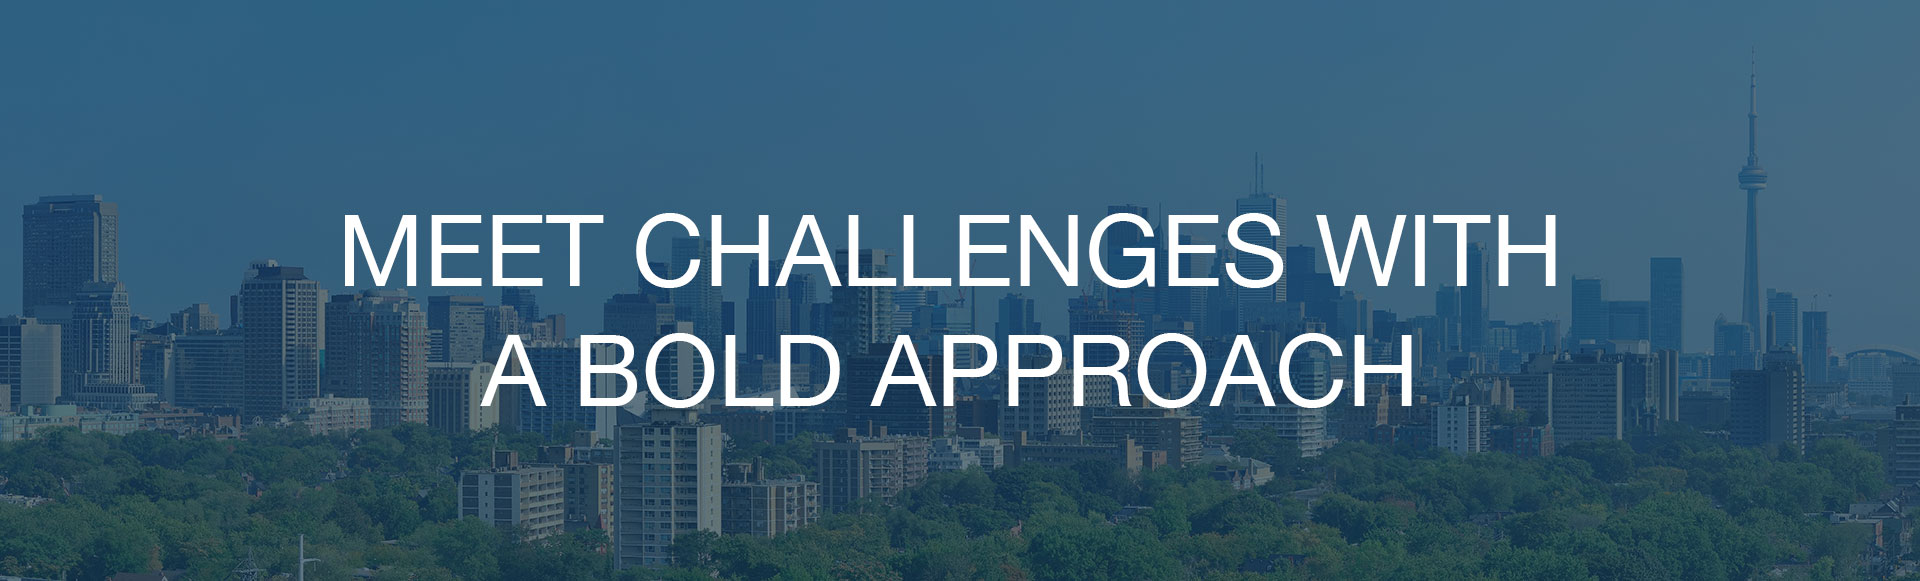
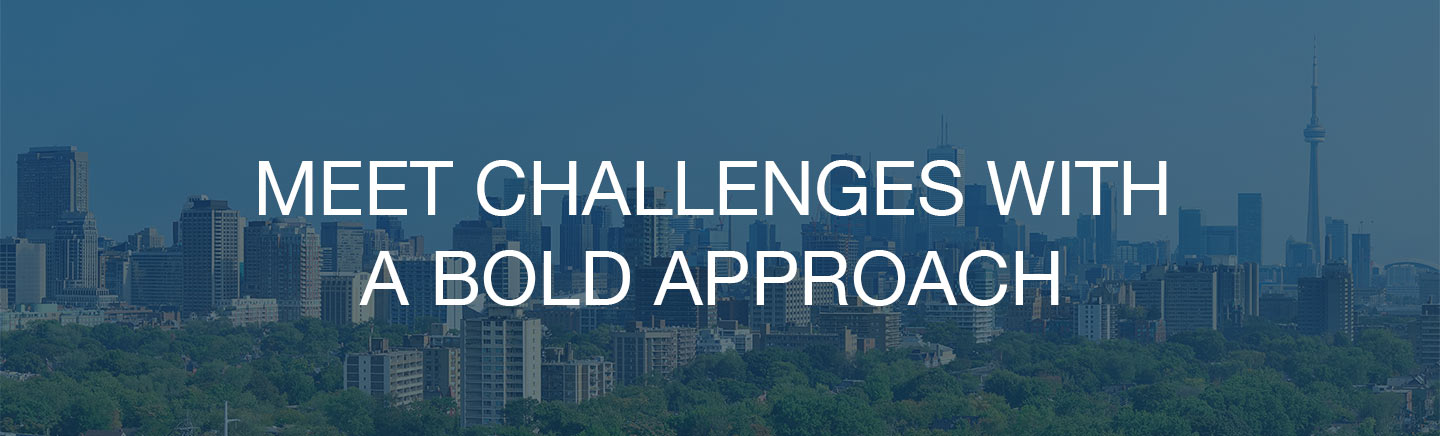
Added RSS feeds, buttons for twitter follow and RSS subscribe to header.

diff --git a/hugo/layouts/partials/common/page-header.html b/hugo/layouts/partials/common/page-header.html
@@ -20,9 +20,9 @@
         <!-- Collect the nav links, forms, and other content for toggling -->
         <div class="collapse navbar-collapse pull-right" id="wych-navbar-collapse">
             <ul class="nav navbar-nav">
-                <li><a href="/services"><i class="fa fa-gears"></i>&nbsp;Services</a></li>
-                <li><a href="/blogs/"><i class="fa fa-rss"></i>&nbsp;Blogs</a></li>
-                <li><a href="/about"><i class="fa fa-lightbulb-o"></i>&nbsp;About</a></li>
+                <li><a href="/services"><i class="fa fa-fw fa-gears"></i>&nbsp;Services</a></li>
+                <li><a href="/blogs/"><i class="fa fa-fw fa-rss"></i>&nbsp;Blogs</a></li>
+                <li><a href="/about"><i class="fa fa-fw fa-lightbulb-o"></i>&nbsp;About</a></li>
                 <!--<li class="dropdown">
                     <a href="#" class="dropdown-toggle" data-toggle="dropdown">Blog <span class="caret"></span></a>
                     <ul class="dropdown-menu" role="menu">
@@ -35,8 +35,28 @@
                         <li><a href="#">One more separated link</a></li>
                     </ul>
                 </li> -->
-                <li class=""><a target="_careers" href="http://apply.launchcode5.com"><i class="fa fa-group"></i>&nbsp;Careers</a></li>
-                <li class=""><a href="#contactModal" data-toggle="modal" data-target="#contactModal"><i class="fa fa-phone"></i>&nbsp;Contact</a></li>
+                <li><a target="_careers" href="http://apply.launchcode5.com"><i class="fa fa-fw fa-group"></i>&nbsp;Careers</a></li>
+                <li><a href="#contactModal" data-toggle="modal" data-target="#contactModal"><i class="fa fa-fw fa-phone"></i>&nbsp;Contact</a></li>
+            </ul>
+            <ul class="nav navbar-nav nav-right nav-pills">
+                <li class="hidden-xs">
+                    <a class="hand btn btn-xs twitter-follow-btn" onclick="twitterFollow('launchcode5');" title="Follow us on Twitter">
+                        <div class="nav-social-btn"><i class="fa fa-fw fa-twitter"></i></div>
+                    </a>
+                </li>
+                <li class="hidden-xs">
+                    <a class="hand btn btn-xs feedburner-subscribe-btn" title="Subscribe to our Blogs Feed" href="http://feeds.feedburner.com/BlogsAtLaunchcodeSoftwareStudios">
+                        <div class="nav-social-btn"><i class="fa fa-fw fa-rss"></i></div>
+                    </a>
+                </li>
+                <li class="visible-xs">
+                    <a class="hand" onclick="twitterFollow('launchcode5');" title="Follow us on Twitter">
+                        <span class="btn btn-sm twitter-follow-btn"><i class="fa fa-fw fa-twitter"></i>&nbsp;Follow</span>
+                    </a>
+                    <a class="hand" href="http://feeds.feedburner.com/BlogsAtLaunchcodeSoftwareStudios" title="Subscribe to our Blogs Feed">
+                        <span class="btn btn-sm feedburner-subscribe-btn"><i class="fa fa-fw fa-rss"></i>&nbsp;Subscribe</span>
+                    </a>
+                </li>
             </ul>
             <!-- <form class="navbar-form navbar-left" role="search">
                     <div class="form-group">

diff --git a/hugo/static/css/main.scss b/hugo/static/css/main.scss
@@ -379,8 +379,55 @@ div.section
 
 .nav > li > a
 {
-  padding: 10px 10px;
+  padding: 10px 8px;
   padding-top: 15px;
+}
+
+.nav.nav-pills > li > a > div.nav-social-btn
+{
+  width: 25px;
+  height: 25px;
+  display: table-cell;
+  vertical-align: middle;
+  text-align: center;
+}
+
+.nav.nav-pills > li > a.twitter-follow-btn
+{
+  background-color: darken(#3071a9, 10);
+  color: #E0E0E0 !important;
+  margin: 0 0;
+  padding: 2px 2px;
+  margin-left: 10px;
+  margin-top: 10px;
+}
+
+.nav.nav-pills > li > a.feedburner-subscribe-btn
+{
+  background-color: darken(#FF6600, 10);
+  color: #E0E0E0 !important;
+  margin: 0 0;
+  padding: 2px 2px;
+  margin-left: 3px;
+  margin-top: 10px;
+}
+
+.nav.nav-pills > li > a > span.twitter-follow-btn {
+  color:  #F0F0F0 !important;
+  background-color: #3071a9;
+  &:hover, &:focus {
+    color:  #F0F0F0 !important;
+    background-color: #3071a9;
+  }
+}
+
+.nav.nav-pills > li > a > span.feedburner-subscribe-btn {
+  color:  #F0F0F0 !important;
+  background-color: #FF6600;
+  &:hover, &:focus {
+    color:  #F0F0F0 !important;
+    background-color: #FF6600;
+  }
 }
 
 .navbar-default .navbar-brand
@@ -402,7 +449,6 @@ div.section
 
 .navbar-default .navbar-nav > .active > a,
 .navbar-default .navbar-nav > .active > a:hover {
-    background-color: rgba($fourthColour, 0.8);
     color: #F0FFFF;
 }
 

diff --git a/hugo/layouts/partials/common/footer.html b/hugo/layouts/partials/common/footer.html
@@ -11,6 +11,7 @@
             <br />
             <a href="https://twitter.com/launchcode5"><i class="fa fa-fw fa-2x fa-twitter"></i></a>
             <a href="https://www.linkedin.com/company/launchcode-software-studios"><i class="fa fa-fw fa-2x fa-linkedin"></i></a>
+            <a href="http://feeds.feedburner.com/BlogsAtLaunchcodeSoftwareStudios" title="Subscribe to our Blogs via Feedburner"><i class="fa fa-fw fa-2x fa-rss"></i></a>
         </div>
     </div>
 </div>

diff --git a/hugo/static/css/banner-images-and-animation.scss b/hugo/static/css/banner-images-and-animation.scss
@@ -18,7 +18,6 @@
 div.page-banner-table {
   display: table;
   width: 100%;
-  max-height: 15%;
   padding-top: 50px;
   position: relative;
   overflow: hidden;
@@ -32,7 +31,6 @@ div.page-banner-table {
       img.page-banner-image {
         width: 100%;
         height: auto;
-        max-height: 15%;
       }
     }
   }
